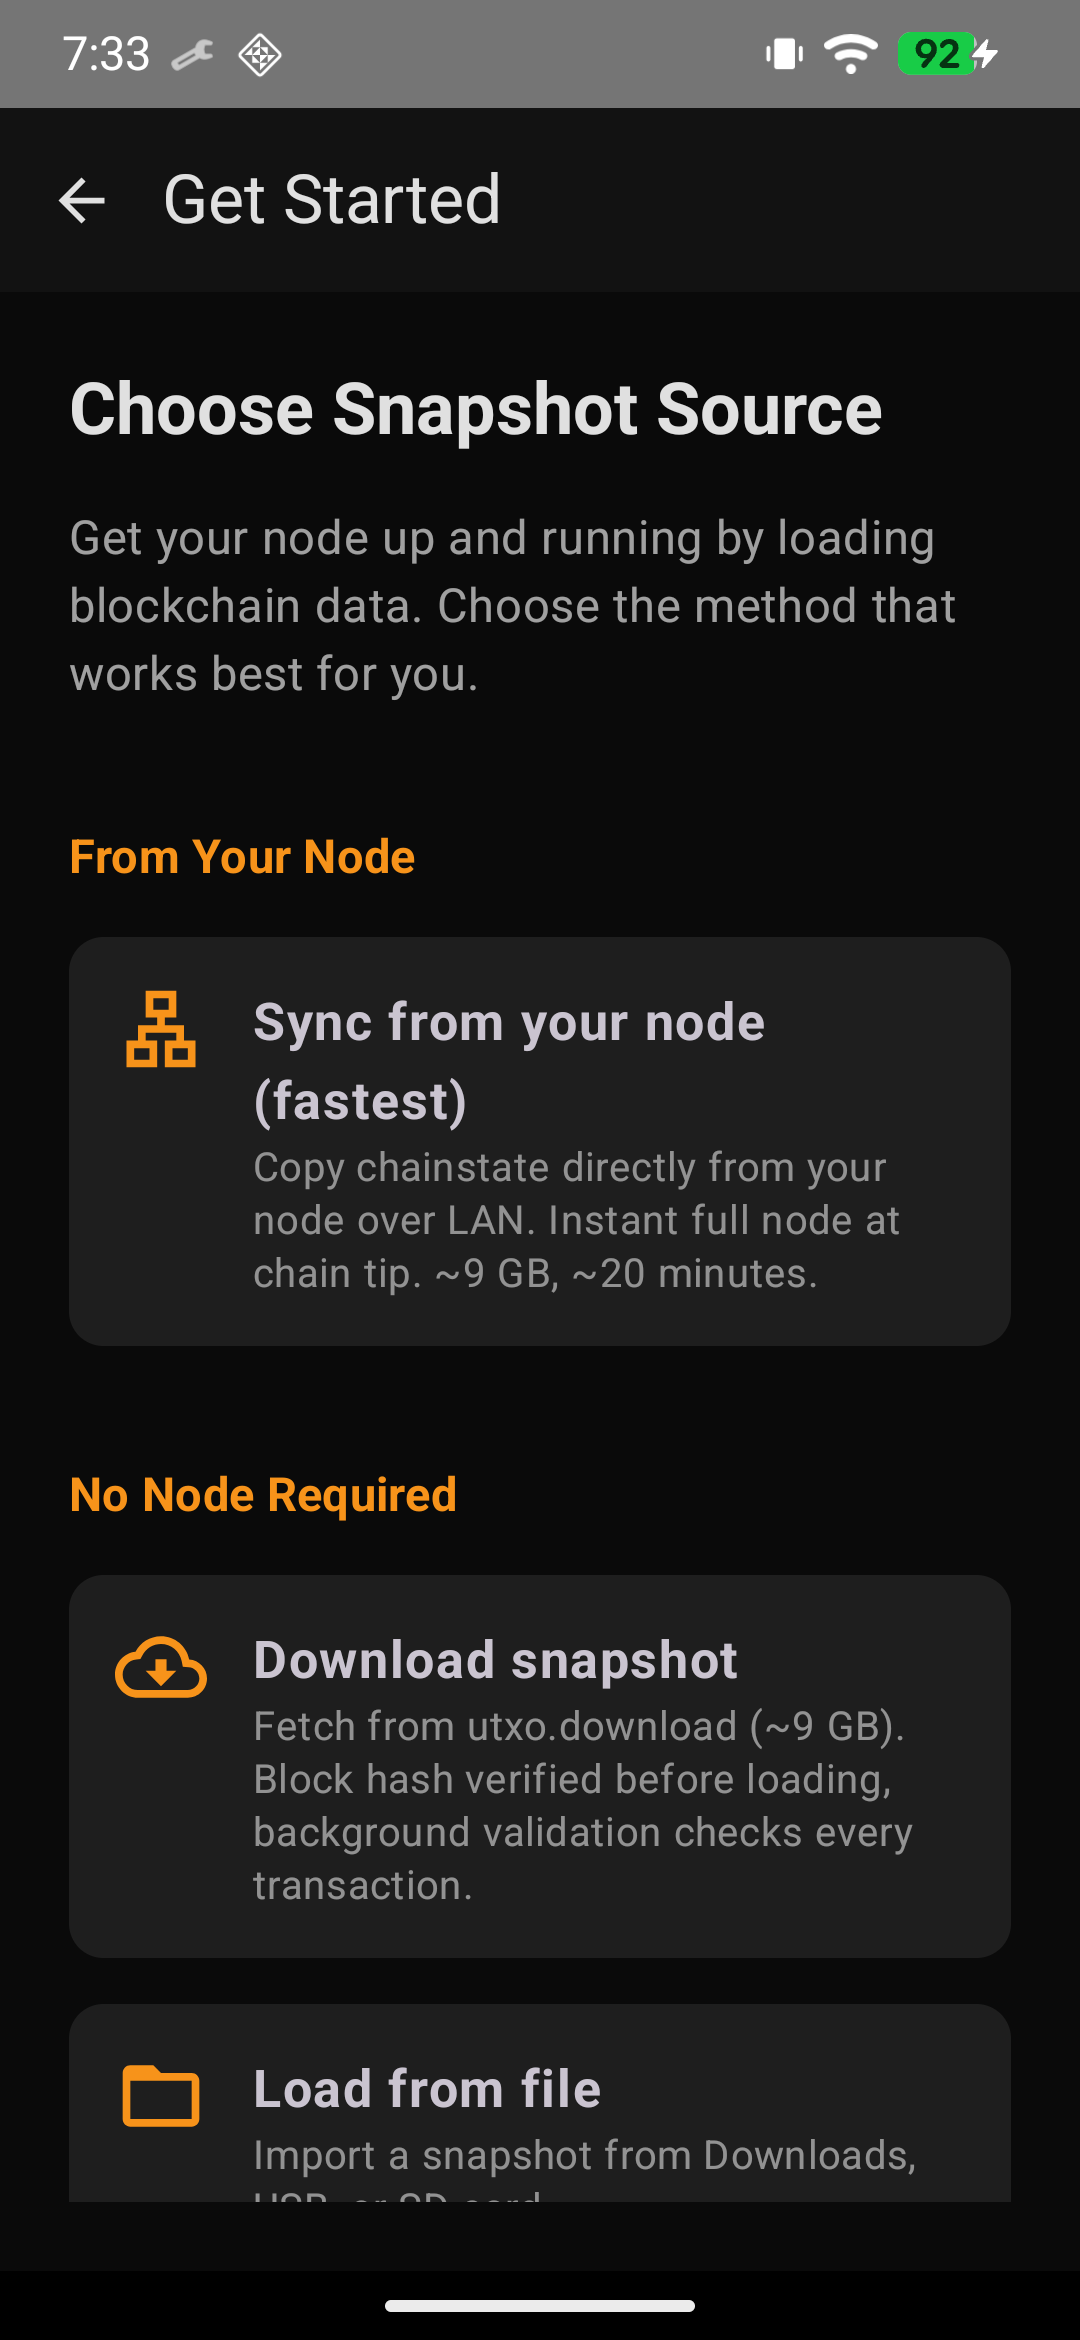
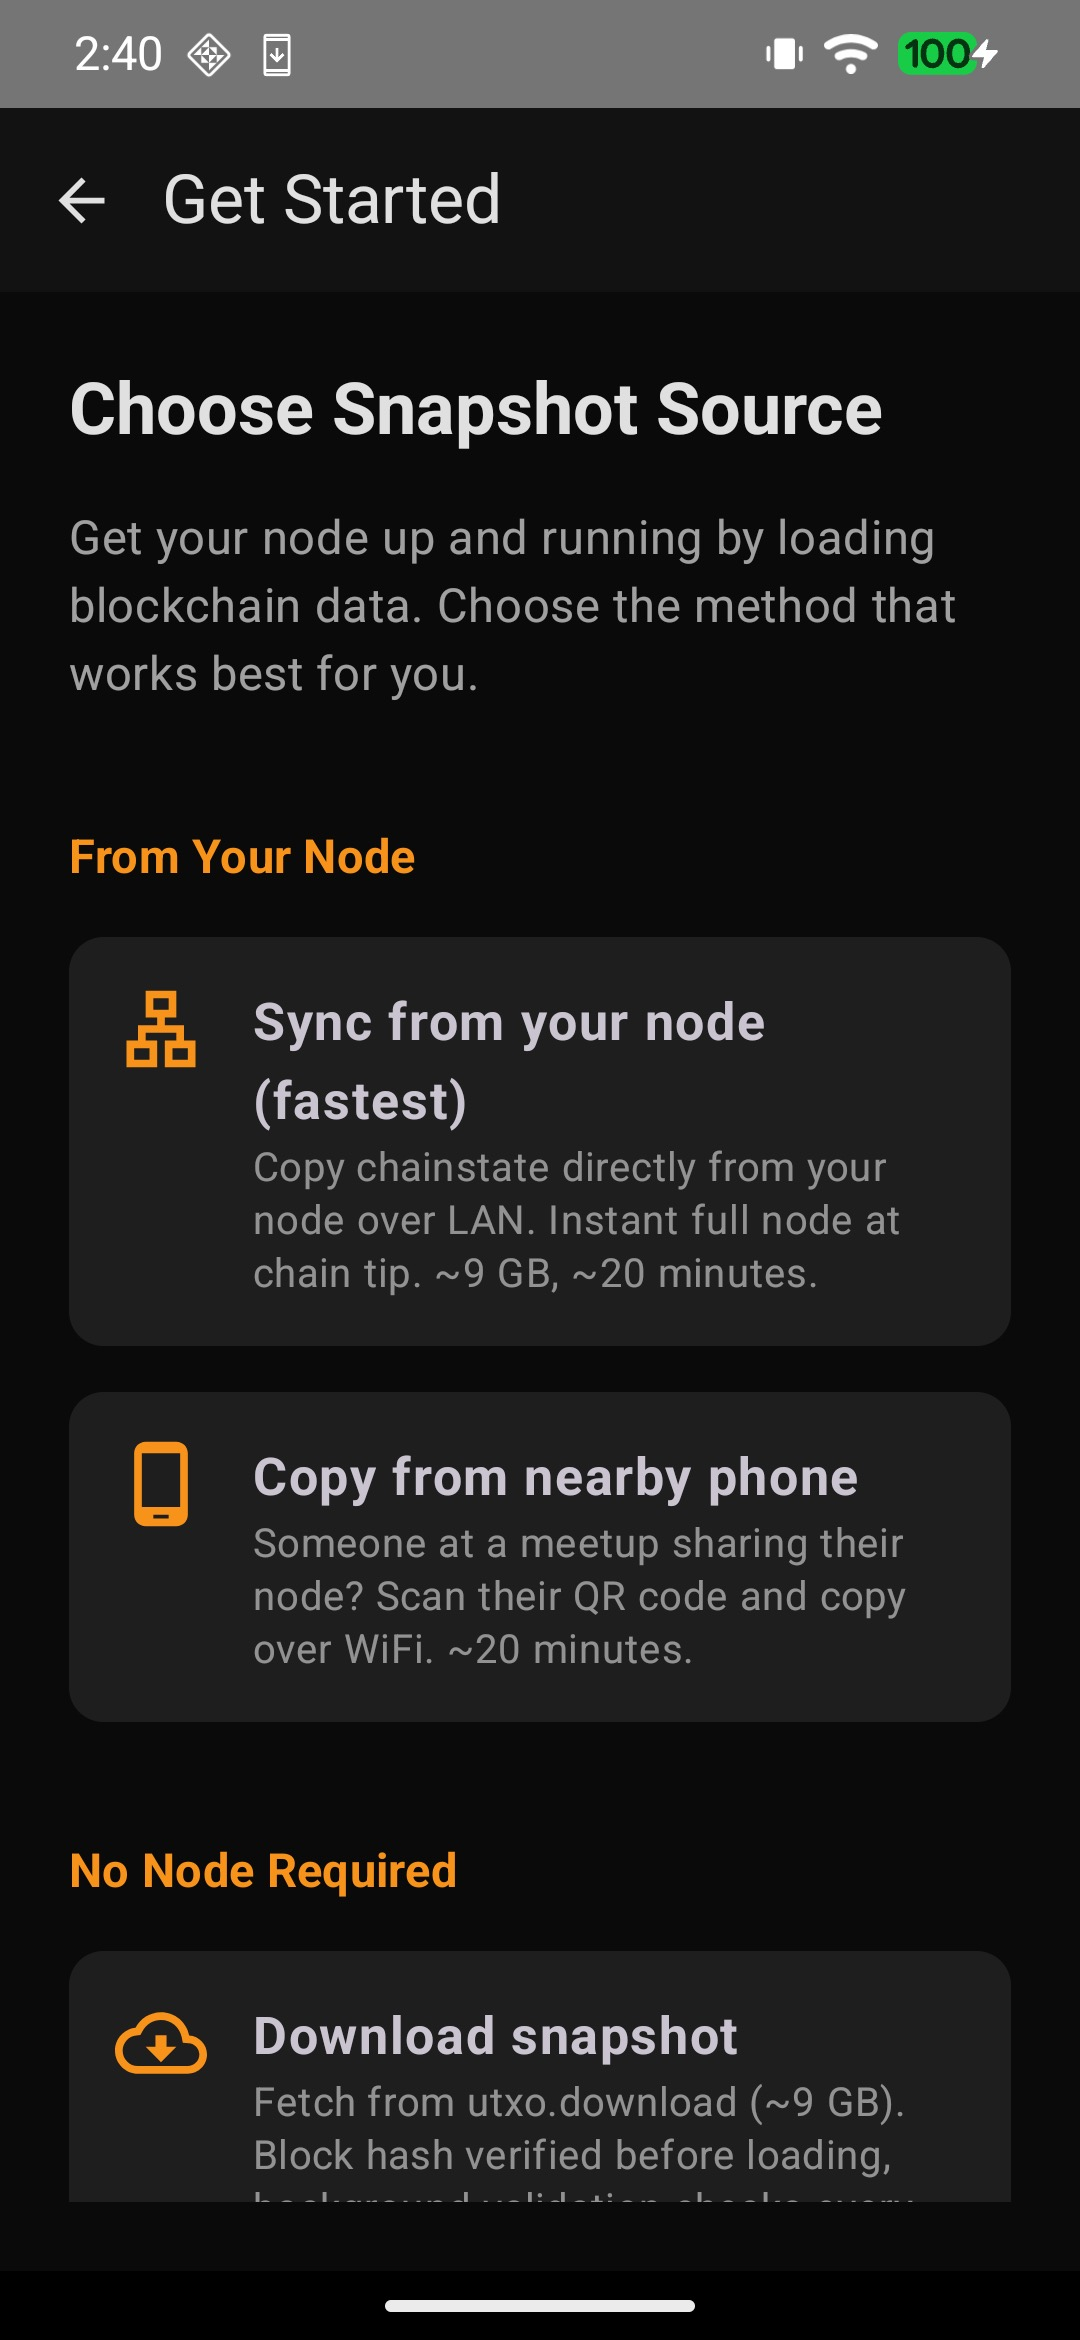
README: 3 bootstrap paths, updated setup screenshot

diff --git a/README.md b/README.md
@@ -8,8 +8,8 @@ Turn any Android phone into a fully-validating Bitcoin full node. No server depe
 
 ## ✅ Proven
 
-- **Direct chainstate copy:** full node at chain tip in ~20 minutes (167M UTXOs, 4 peers, instant)
-- **AssumeUTXO alternative:** full node in ~3 hours via cryptographically verified UTXO snapshot
+- **Three bootstrap paths:** sync from home node (~30 min), copy from a nearby phone (~30 min), or download from internet (~3 hours)
+- **Phone-to-phone sharing:** scan a QR code, get a full node. No servers, no accounts
 - **3 Bitcoin implementations:** Core 28.1, Core 30, Knots 29.3 (with BIP 110 toggle). Switch with one tap, same chainstate
 - Phone stays cool, runs overnight without issues
 - ~26 GB total disk with Lightning (11 GB chainstate + 2 GB pruned blocks + 13 GB block filters), ~13 GB without
@@ -74,16 +74,22 @@ Turn any Android phone into a fully-validating Bitcoin full node. No server depe
 
 ## How It Works
 
-Two bootstrap paths. Choose speed or trustlessness:
+Three bootstrap paths. Pick whichever suits your situation:
 
-### ⚡ Path 1: Sync from Your Node (Direct Chainstate Copy) ~20 min
+### ⚡ Path 1: Sync from Your Home Node (~30 min)
 1. App connects to your home node (Umbrel, Start9, any Bitcoin node) via SSH
-2. Briefly stops bitcoind, copies chainstate + block index + xor.dat + tip blocks
-3. Creates stub files for historical blocks, starts bitcoind with `checklevel=0`
-4. **Instant full node at chain tip.** No background validation, no catch-up
+2. Briefly stops bitcoind, archives chainstate + block index + block filters
+3. Downloads the archive (~24 GB with Lightning filters), extracts, starts bitcoind
+4. **Full node at chain tip.** Includes block filters for Lightning if your node has them
 
-### 🔒 Path 2: Download from Internet (AssumeUTXO) ~3 hours
-1. Download a UTXO snapshot (~9 GB) from your home node over LAN or the internet
+### 📱 Path 2: Copy from a Nearby Phone (~30 min)
+1. A friend with Pocket Node opens Share, which shows a QR code
+2. You scan it (or visit the URL on any browser to download the app first)
+3. Chainstate + block filters transfer directly over WiFi, phone to phone
+4. **No home node needed.** Zero accounts, zero servers, just two phones on the same network
+
+### 🔒 Path 3: Download from Internet (AssumeUTXO) (~3 hours)
+1. Download a UTXO snapshot (~9 GB) from utxo.download
 2. App loads it via `loadtxoutset` (cryptographically verified by Bitcoin Core)
 3. Phone syncs forward from the snapshot height (~25 min to load, ~2 hours to reach tip)
 4. Background validation confirms everything independently from genesis
@@ -109,7 +115,7 @@ See [Version Selection Design](docs/VERSION-SELECTION.md) and [BIP 110 Research]
 ## Features
 
 - **3 Bitcoin implementations** with one-tap switching: Core 28.1, Core 30, Knots 29.3 (BIP 110 toggle)
-- **Two bootstrap paths:** direct chainstate copy (~20 min) or AssumeUTXO (~3 hours)
+- **Three bootstrap paths:** home node, nearby phone, or internet download
 - **Pure Kotlin Electrum server** so BlueWallet can query your own node (no native dependencies)
 - **Built-in Lightning node** powered by LDK (send, receive, channels, peer browser, seed backup/restore)
 - **LNDHub API** on localhost:3000 for external wallet connectivity (BlueWallet, Zeus)
